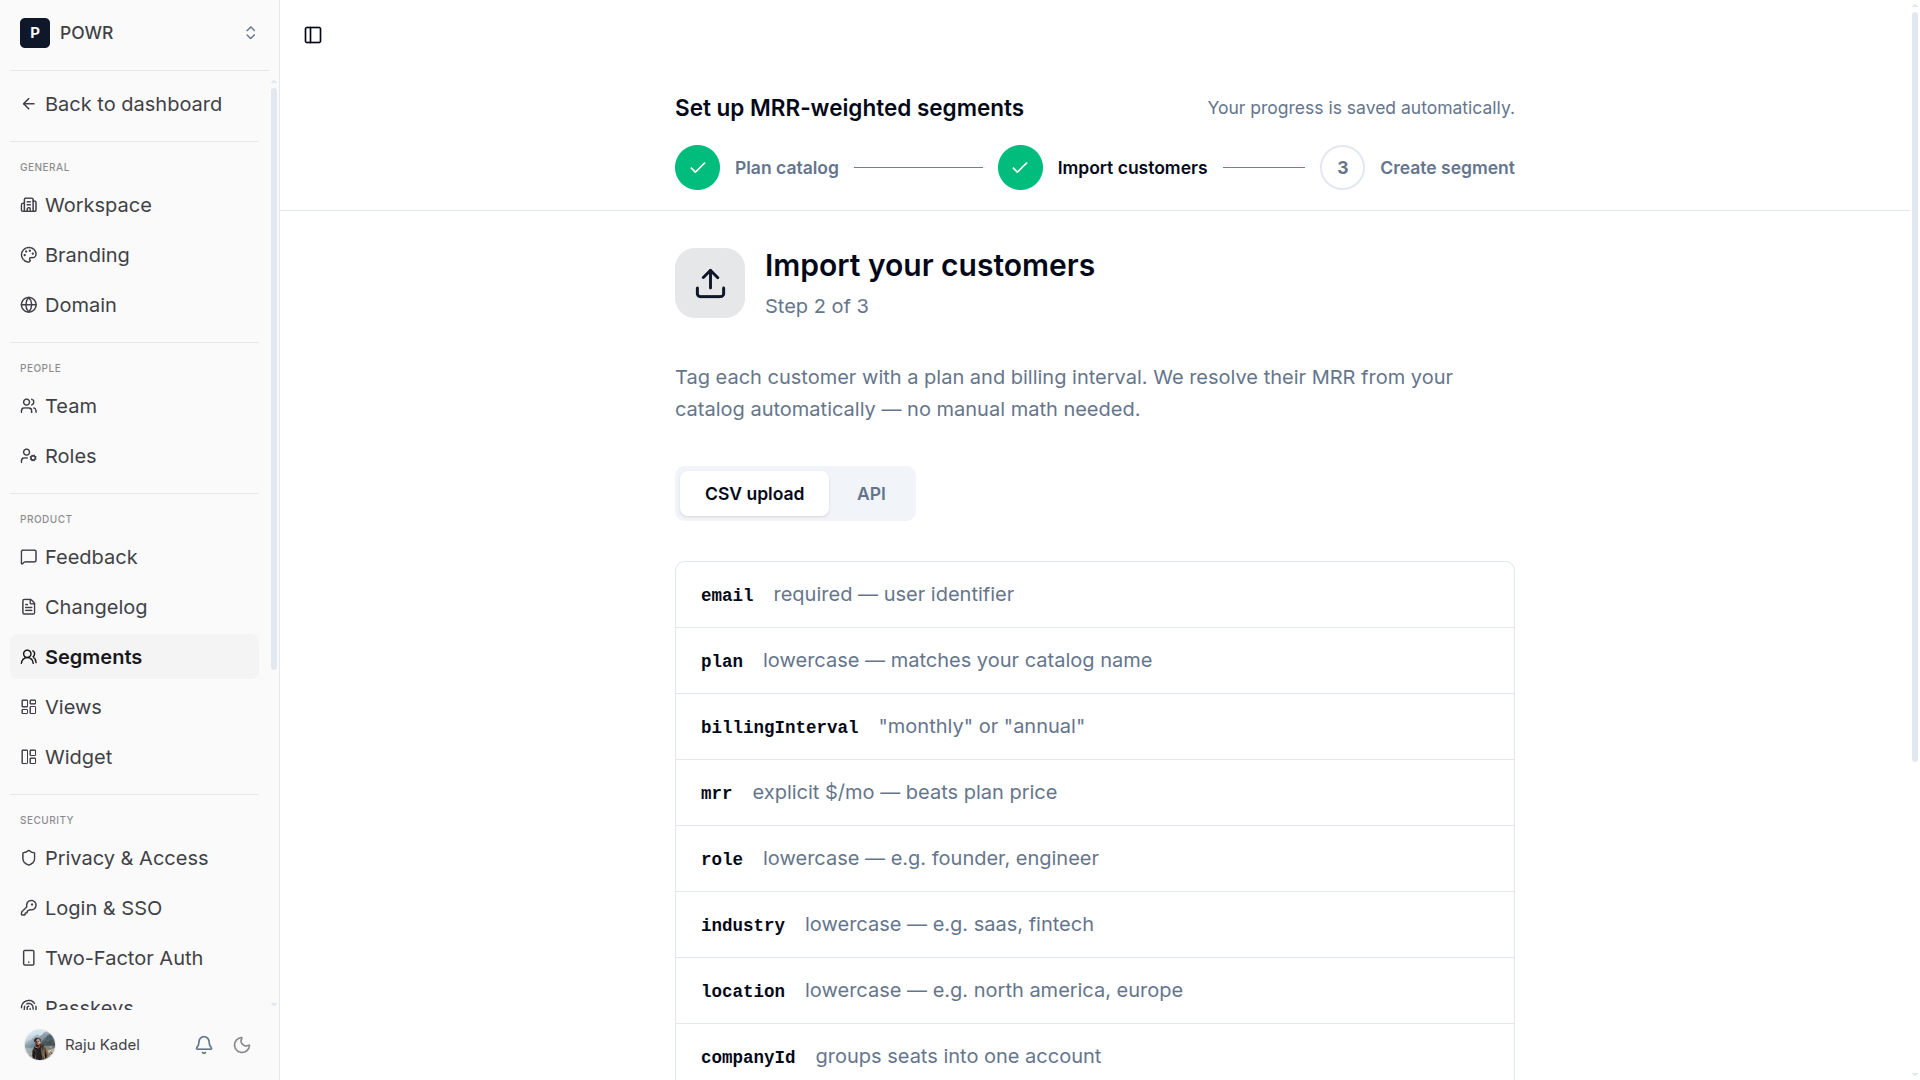
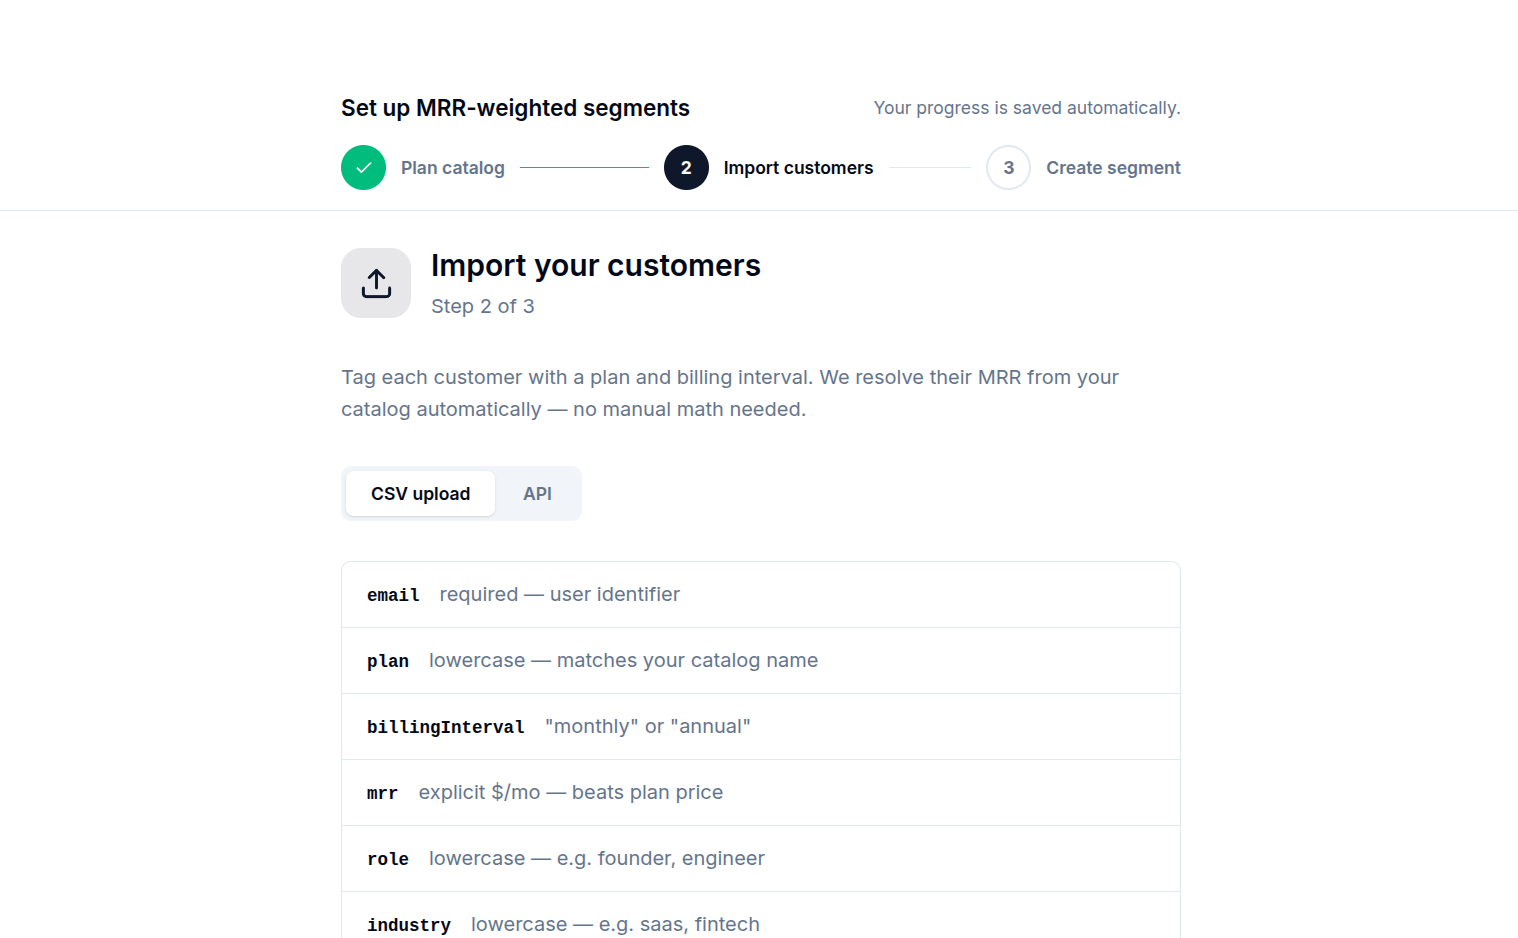
feat(landing): widen showcase side columns, fix aspect ratio, update step labels and URL

diff --git a/apps/web/app/features/public/landing/components/showcase-section.tsx b/apps/web/app/features/public/landing/components/showcase-section.tsx
@@ -13,7 +13,7 @@ function Callout({
   const border = accent === "green" ? "border-emerald-500/25" : "border-orange-500/25";
   const bg = accent === "green" ? "bg-emerald-500/[0.05]" : "bg-orange-500/[0.05]";
   return (
-    <div className={`rounded-xl border ${border} ${bg} p-4 shadow-lg min-w-[170px] lg:min-w-0`}>
+    <div className={`rounded-xl border ${border} ${bg} p-4 shadow-lg min-w-[220px] lg:min-w-0`}>
       <p className="text-xs font-semibold text-foreground/90 mb-3 leading-tight">{title}</p>
       {children}
     </div>
@@ -31,7 +31,7 @@ function BrowserFrame({ glow, children }: { glow: string; children: React.ReactN
         <span className="w-3 h-3 rounded-full bg-yellow-400/70" />
         <span className="w-3 h-3 rounded-full bg-green-400/70" />
         <div className="ml-3 rounded-md border border-border bg-background/50 px-3 py-1 text-xs text-muted-foreground">
-          app.feeduro.com
+          feeduro.com
         </div>
       </div>
       {children}
@@ -74,7 +74,7 @@ function AnalyticsShowcaseCard() {
         </p>
       </div>
 
-      <div className="grid grid-cols-1 lg:grid-cols-[210px_1fr_210px] gap-6 lg:gap-8 items-center">
+      <div className="grid grid-cols-1 lg:grid-cols-[270px_1fr_270px] gap-6 lg:gap-8 items-center">
         <div className="flex lg:flex-col gap-4 overflow-x-auto lg:overflow-visible pb-1 lg:pb-0">
           <Callout title="Unique visitors and total views per board">
             <div className="flex items-baseline gap-1.5 mb-2">
@@ -116,7 +116,7 @@ function AnalyticsShowcaseCard() {
 
         <div className="order-first lg:order-none">
           <BrowserFrame glow="rgba(16,185,129,0.18)">
-            <div className="relative">
+            <div className="relative aspect-[16/10]">
               {ANALYTICS_STEPS.map(({ src }, i) => (
                 <img
                   key={src}
@@ -124,29 +124,23 @@ function AnalyticsShowcaseCard() {
                   alt={`Feeduro analytics step ${i + 1}`}
                   loading={i === 0 ? "eager" : "lazy"}
                   className={[
-                    "w-full h-auto block transition-opacity duration-500",
-                    i > 0 ? "absolute inset-0 object-cover" : "",
+                    "absolute inset-0 w-full h-full object-cover transition-opacity duration-500",
                     step === i ? "opacity-100" : "opacity-0",
                   ].join(" ")}
                 />
               ))}
             </div>
           </BrowserFrame>
-          <div className="mt-4 flex flex-col items-center gap-2">
-            <p className="text-xs text-muted-foreground tabular-nums">
-              Step {step + 1} of {ANALYTICS_STEPS.length} — {ANALYTICS_STEPS[step].label}
-            </p>
-            <div className="flex gap-2">
-              {ANALYTICS_STEPS.map((_, i) => (
-                <button
-                  key={i}
-                  type="button"
-                  onClick={() => setStep(i)}
-                  aria-label={`Step ${i + 1}`}
-                  className={`w-2 h-2 rounded-full transition-colors duration-300 ${step === i ? "bg-emerald-400" : "bg-border hover:bg-muted-foreground/40"}`}
-                />
-              ))}
-            </div>
+          <div className="mt-4 flex justify-center gap-2">
+            {ANALYTICS_STEPS.map((_, i) => (
+              <button
+                key={i}
+                type="button"
+                onClick={() => setStep(i)}
+                aria-label={`Step ${i + 1}`}
+                className={`w-2 h-2 rounded-full transition-colors duration-300 ${step === i ? "bg-emerald-400" : "bg-border hover:bg-muted-foreground/40"}`}
+              />
+            ))}
           </div>
         </div>
 
@@ -193,9 +187,9 @@ function AnalyticsShowcaseCard() {
 }
 
 const SEG_STEPS = [
-  { src: "/segmentation/step_1.png", label: "Define your segment" },
-  { src: "/segmentation/step_2.png", label: "Apply filters to your board" },
-  { src: "/segmentation/step_3.png", label: "See exactly what they need" },
+  { src: "/segmentation/step_1.png", label: "Create plan catalog" },
+  { src: "/segmentation/step_2.png", label: "Import your customers" },
+  { src: "/segmentation/step_3.png", label: "Create your first segment" },
 ];
 
 function SegmentationShowcaseCard() {
@@ -227,7 +221,7 @@ function SegmentationShowcaseCard() {
         </p>
       </div>
 
-      <div className="grid grid-cols-1 lg:grid-cols-[210px_1fr_210px] gap-6 lg:gap-8 items-center">
+      <div className="grid grid-cols-1 lg:grid-cols-[270px_1fr_270px] gap-6 lg:gap-8 items-center">
         <div className="flex lg:flex-col gap-4 overflow-x-auto lg:overflow-visible pb-1 lg:pb-0">
           <Callout title="Create segments from any user trait" accent="orange">
             <div className="space-y-1.5">
@@ -262,7 +256,7 @@ function SegmentationShowcaseCard() {
 
         <div className="order-first lg:order-none">
           <BrowserFrame glow="rgba(249,115,22,0.18)">
-            <div className="relative">
+            <div className="relative aspect-[16/10]">
               {SEG_STEPS.map(({ src }, i) => (
                 <img
                   key={src}
@@ -270,8 +264,7 @@ function SegmentationShowcaseCard() {
                   alt={`Feeduro segmentation step ${i + 1}`}
                   loading={i === 0 ? "eager" : "lazy"}
                   className={[
-                    "w-full h-auto block transition-opacity duration-500",
-                    i > 0 ? "absolute inset-0 object-cover" : "",
+                    "absolute inset-0 w-full h-full object-cover transition-opacity duration-500",
                     step === i ? "opacity-100" : "opacity-0",
                   ].join(" ")}
                 />
@@ -279,21 +272,22 @@ function SegmentationShowcaseCard() {
               <div className="absolute inset-0 bg-orange-500/10 mix-blend-soft-light pointer-events-none" />
             </div>
           </BrowserFrame>
-          <div className="mt-4 flex flex-col items-center gap-2">
-            <p className="text-xs text-muted-foreground tabular-nums">
-              Step {step + 1} of {SEG_STEPS.length} — {SEG_STEPS[step].label}
-            </p>
-            <div className="flex gap-2">
-              {SEG_STEPS.map((_, i) => (
-                <button
-                  key={i}
-                  type="button"
-                  onClick={() => setStep(i)}
-                  aria-label={`Step ${i + 1}`}
-                  className={`w-2 h-2 rounded-full transition-colors duration-300 ${step === i ? "bg-orange-400" : "bg-border hover:bg-muted-foreground/40"}`}
-                />
-              ))}
-            </div>
+          <div className="mt-4 flex flex-col gap-1.5">
+            {SEG_STEPS.map(({ label }, i) => (
+              <button
+                key={i}
+                type="button"
+                onClick={() => setStep(i)}
+                className="flex items-center gap-2.5 text-left transition-colors group"
+              >
+                <span className={`w-5 h-5 rounded-full flex items-center justify-center text-[10px] font-bold shrink-0 transition-colors ${step === i ? "bg-orange-400/20 text-orange-400" : "bg-border text-muted-foreground group-hover:text-foreground/70"}`}>
+                  {i + 1}
+                </span>
+                <span className={`text-xs transition-colors ${step === i ? "text-orange-400 font-medium" : "text-muted-foreground group-hover:text-foreground/70"}`}>
+                  {label}
+                </span>
+              </button>
+            ))}
           </div>
         </div>
 
@@ -339,7 +333,7 @@ function SegmentationShowcaseCard() {
 export function ShowcaseSection() {
   return (
     <section id="showcase" className="py-24 px-6 border-t border-border">
-      <div className="max-w-6xl mx-auto">
+      <div className="max-w-7xl mx-auto">
         <div className="space-y-16">
           <AnalyticsShowcaseCard />
           <SegmentationShowcaseCard />
